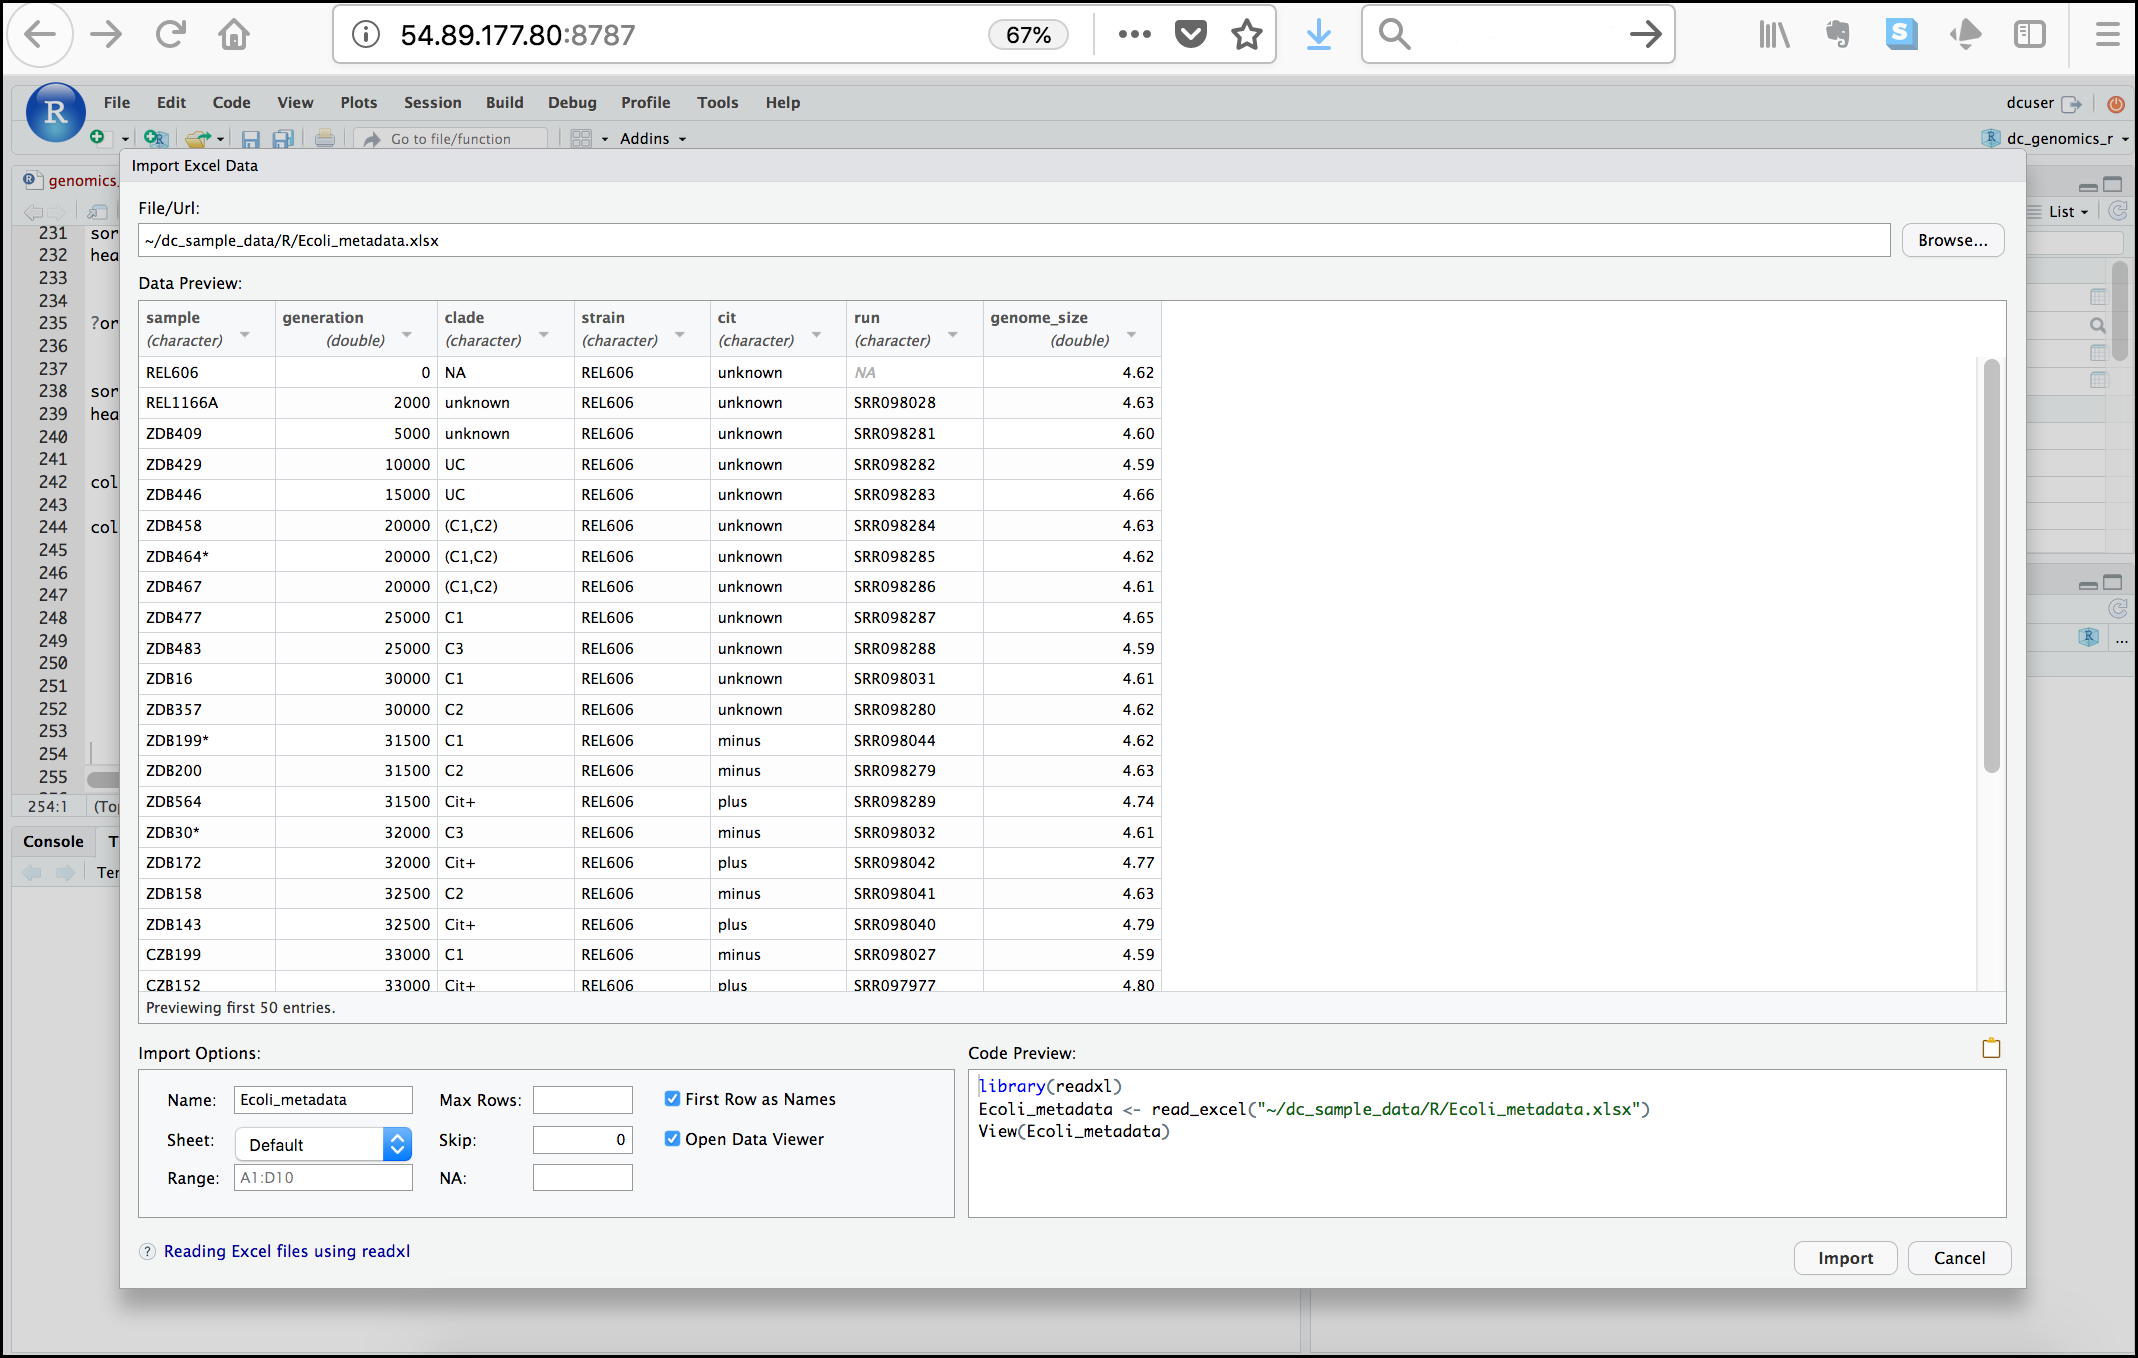
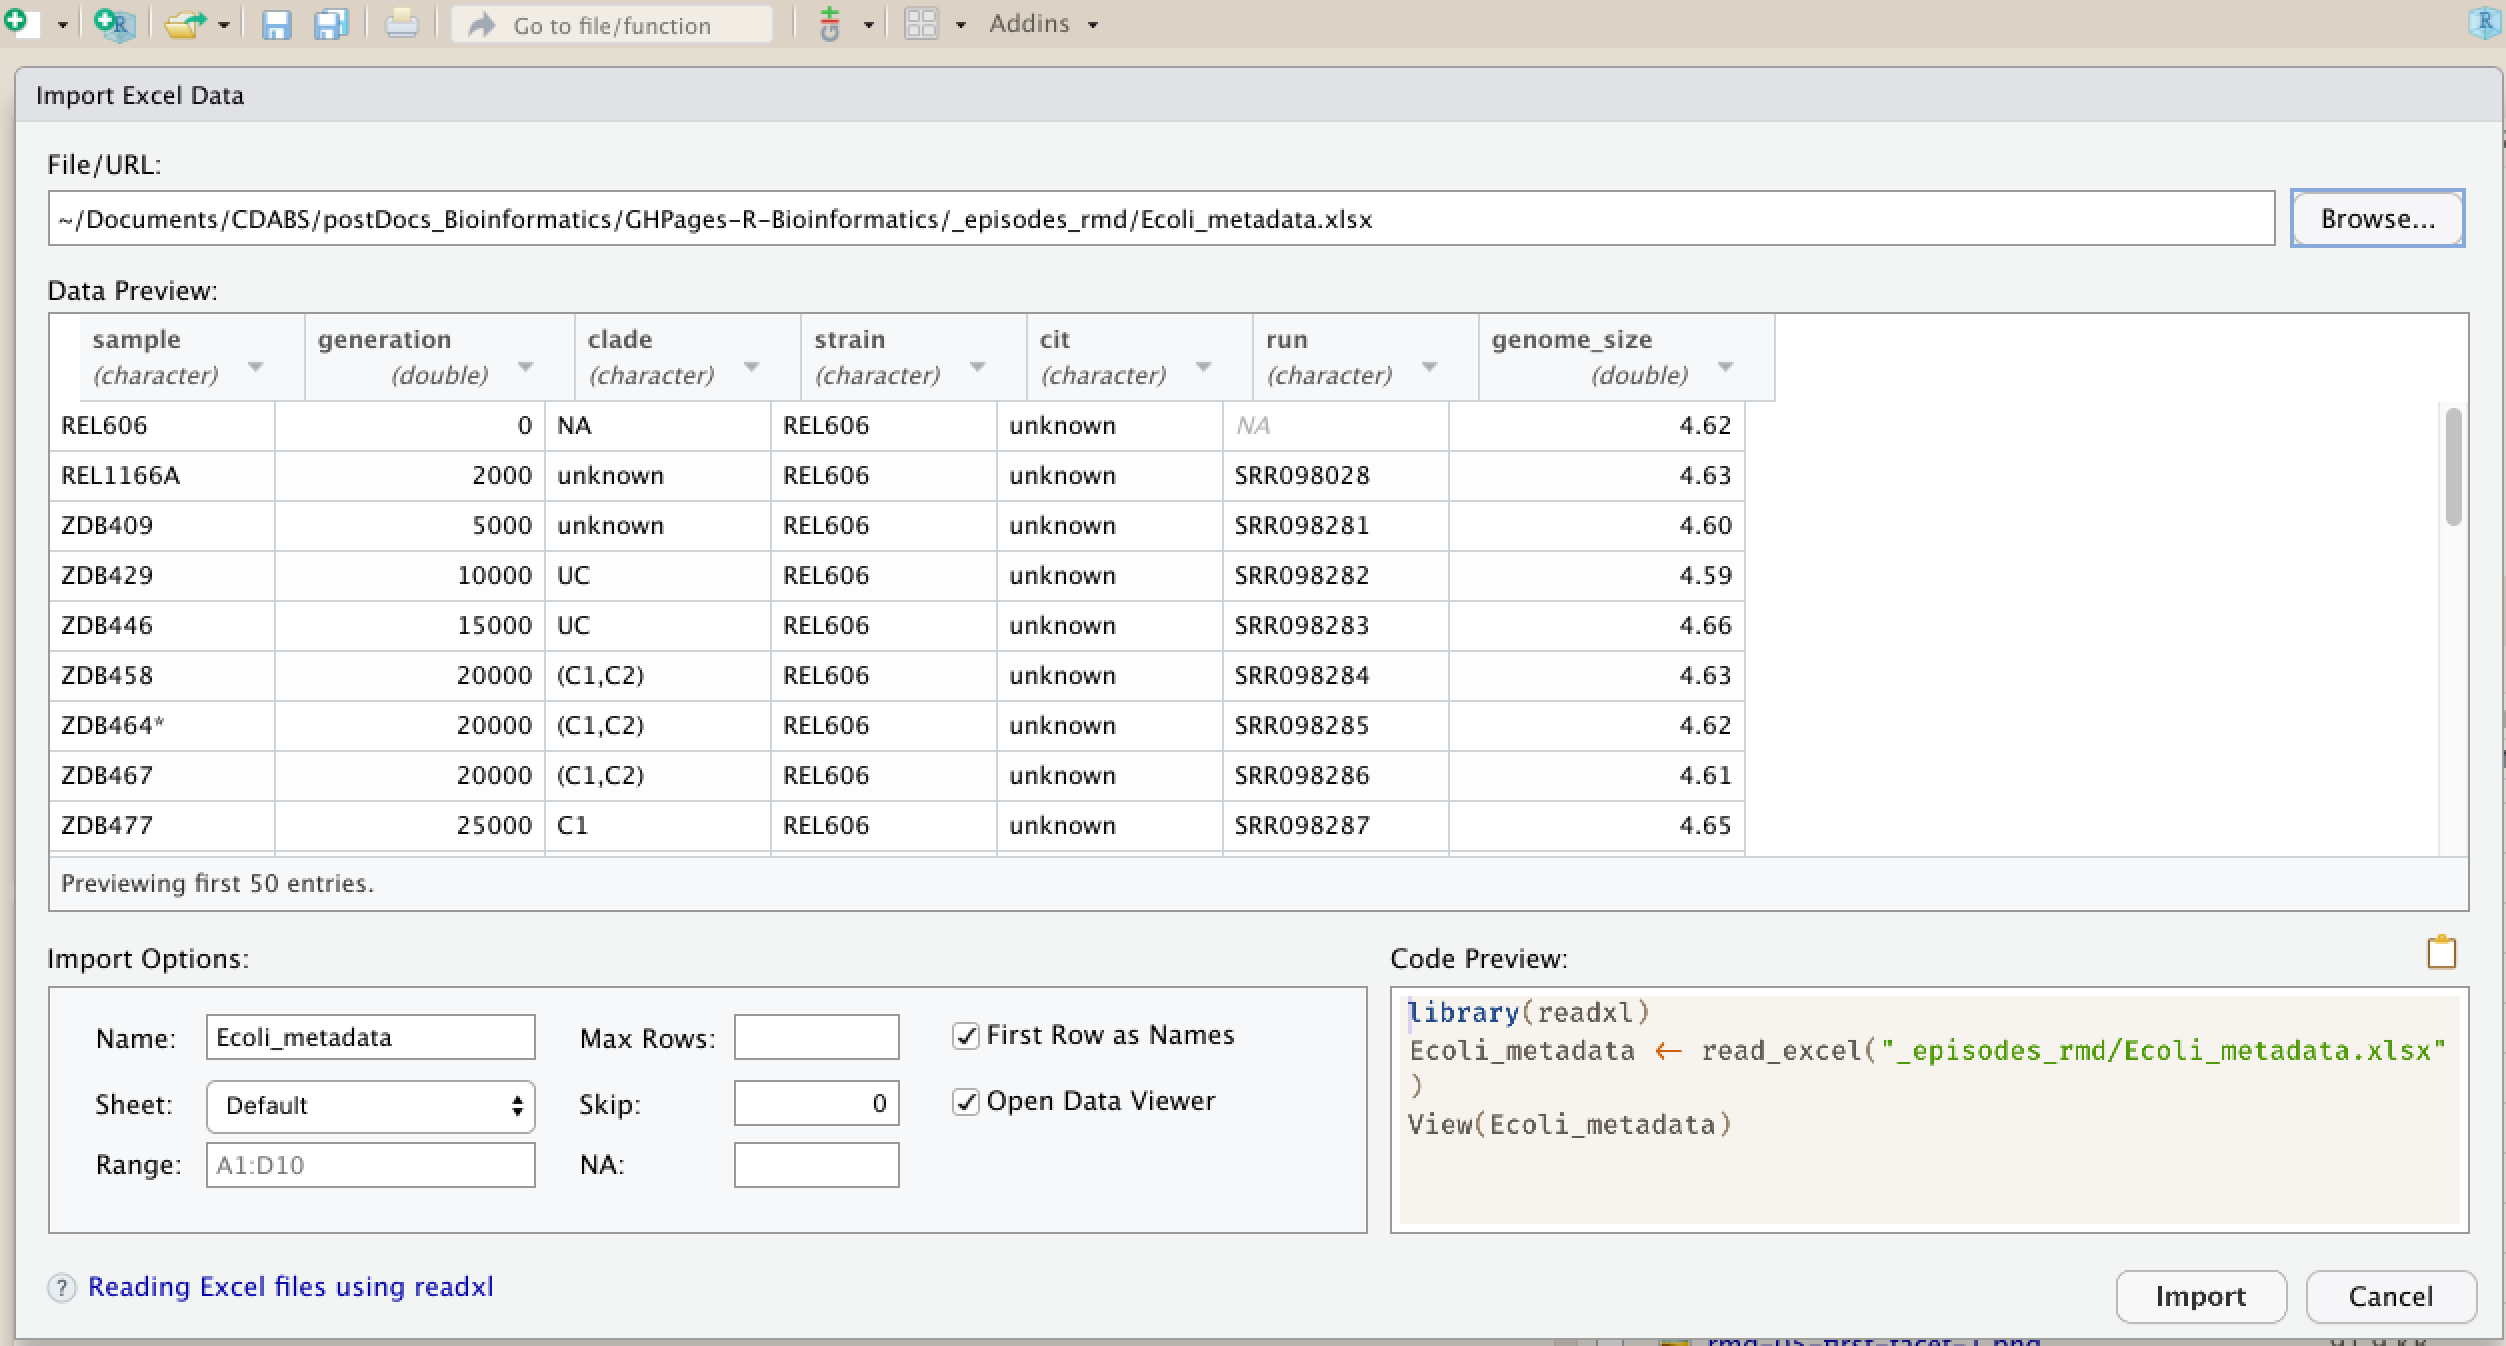
episode 03 imports changes

diff --git a/_episodes/03-basics-factors-dataframes.md b/_episodes/03-basics-factors-dataframes.md
@@ -46,8 +46,7 @@ first set of example data:
 **1) Keep raw data separate from analyzed data**
 
 This is principle number one because if you can't tell which files are the
-original raw data, you risk making some serious mistakes (e.g. drawing conclusion
-from data which have been manipulated in some unknown way).
+original raw data, you risk making some serious mistakes (e.g. drawing conclusion from data which have been manipulated in some unknown way). This is a redundancy but important to review!
 
 **2) Keep spreadsheet data Tidy**
 
@@ -61,9 +60,7 @@ in [this paper](https://www.jstatsoft.org/article/view/v059i10).
 
 **3) Trust but verify**
 
-Finally, while you don't need to be paranoid about data, you should have a plan
-for how you will prepare it for analysis. **This a focus of this lesson.**
-You probably already have a lot of intuition, expectations, assumptions about
+Finally, while you don't need to be paranoid about data, you should have a plan for how you will prepare it for analysis. **This a focus of this lesson.** You probably already have a lot of intuition, expectations, assumptions about
 your data - the range of values you expect, how many values should have
 been recorded, etc. Of course, as the data get larger our human ability to
 keep track will start to fail (and yes, it can fail for small data sets too).
@@ -77,14 +74,13 @@ in your analysis, and its reproducibility.
 > a spreadsheet program where changing the value of the cell leaves you one
 > "save"-click away from overwriting the original file. You have to purposely
 > use a writing function (e.g. `write.csv()`) to save data loaded into R. In
-> that case, be sure to save the manipulated data into a new file. More on this
+> that case, be sure to save the modified data into a new file. More on this
 > later in the lesson.  
  {: .callout}
 
 ## Importing tabular data into R
 There are several ways to import data into R. For our purpose here, we will
-focus on using the tools every R installation comes with (so called "base" R) to
-import a comma-delimited file containing the results of our variant calling workflow.
+focus on using the tools every R installation comes with (so called "base" R) to import a comma-delimited file containing the results of a variant calling workflow.
 We will need to load the sheet using a function called `read.csv()`.
 
 > ## Exercise: Review the arguments of the `read.csv()` function
@@ -137,7 +133,7 @@ We will need to load the sheet using a function called `read.csv()`.
 {: .challenge}
 
 Now, let's read in the file `combined_tidy_vcf.csv` which will be located in
-`/home/dcuser/.solutions/R_data/`. Call this data `variants`. The
+`~/Documents/post-docs_genomics_r/data/`. Call this data `variants`. The
 first argument to pass to our `read.csv()` function is the file path for our
 data. The file path must be in quotes and now is a good time to remember to
 use tab autocompletion. **If you use tab autocompletion you avoid typos and
@@ -146,8 +142,8 @@ errors in file paths.** Use it!
 
 ~~~
 ## read in a CSV file and save it as 'variants'
-
-variants <- read.csv("../r_data/combined_tidy_vcf.csv")
+# assuming youre in the project home directory too!
+variants <- read.csv("data/combined_tidy_vcf.csv")
 ~~~
 {: .language-r}
 
@@ -251,9 +247,9 @@ new data frame using the `data.frame()` function.
 
 
 ~~~
-## put the first three columns of variants into a new data frame called subset
+## put the first three columns and column 6 of variants into a new data frame called subset
 
-subset<-data.frame(variants[,c(1:3,6)])
+subset<- variants[,c(1:3,6)]
 ~~~
 {: .language-r}
 
@@ -279,7 +275,7 @@ str(subset)
 ~~~
 {: .output}
 
-Ok, thats a lot up unpack! Some things to notice.
+Ok, thats a lot to unpack! Some things to notice.
 
 - the object type `data.frame` is displayed in the first row along with its
   dimensions, in this case 801 observations (rows) and 4 variables (columns)
@@ -1374,8 +1370,18 @@ One common R package (a set of code with features you can download and add to
 your R installation) is the [readxl package](https://CRAN.R-project.org/package=readxl) which can open and import Excel
 files. Rather than addressing package installation this second (we'll discuss this soon!), we can take
 advantage of RStudio's import feature which integrates this package. (Note:
-this feature is available only in the latest versions of RStudio such as is
-installed on our cloud instance).
+this feature is available only in the latest versions of RStudio).
+
+Before importing the dataset lets make sure we have downloaded it to our `data/` directory in the project folder.
+
+> ## Challenge 1
+> Download the `Ecoli_metadata` data from  [here](https://osf.io/em2xs/download).
+>
+> 1. Download the file 
+> 2. Make sure it's saved under the name `Ecoli_metadata.xlsx`
+> 3. Save the file in the `data/` folder within your project.
+>
+{: .challenge}
 
 First, in the RStudio menu go to **File**, select **Import Dataset**, and
 choose **From Excel...** (notice there are several other options you can
@@ -1383,7 +1389,7 @@ explore).
 
 <img src="../fig/rstudio_import_menu.png " alt="rstudio import menu" style="width: 600px;"/>
 
-Next, under **File/Url:** click the <KBD>Browse</KBD> button and navigate to the **Ecoli_metadata.xlsx** file located at `/home/dcuser/dc_sample_data/R`.
+Next, under **File/Url:** click the <KBD>Browse</KBD> button and navigate to the **Ecoli_metadata.xlsx** file located at `data/`.
 You should now see a preview of the data to be imported:
 
 <img src="../fig/rstudio_import_screen.png " alt="rstudio import screen" style="width: 1200px;"/>
